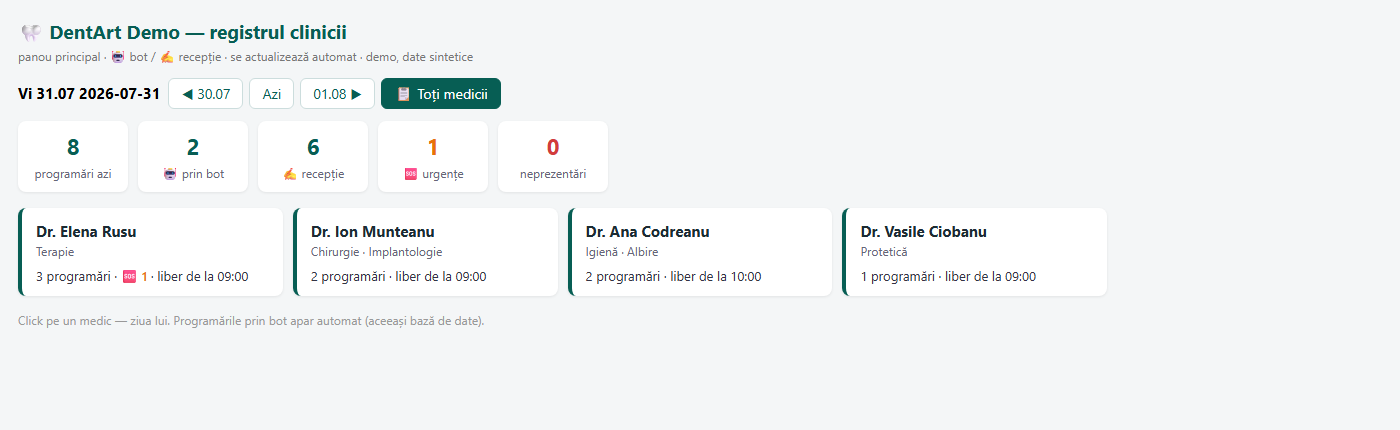
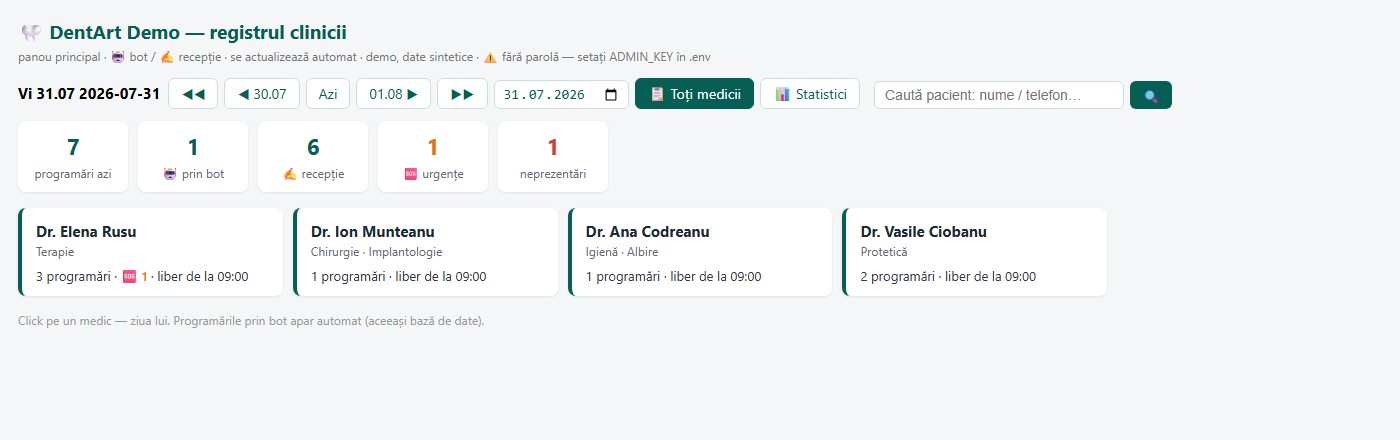
Refresh README: current feature set and updated screenshots
Features now include reminders, admin auth, backups, comments, patient search,
owner stats and CSV export; roadmap trimmed to what is actually left. New shots:
stats page, patient search; re-shot grid/dashboard/doctor-day with ages,
comments and the new date navigation.

diff --git a/README.md b/README.md
@@ -23,6 +23,15 @@ block the slot in the bot.
 
 ![Dashboard](screenshots/admin-dashboard.png)
 
+**Owner stats** — no-shows priced in MDL from the clinic's own price list, value brought
+by the bot, per-doctor occupancy:
+
+![Stats](screenshots/stats.png)
+
+**Patient search** by name or phone digits, with visit history and comments:
+
+<img src="screenshots/patient-search.png" width="680" alt="Patient search">
+
 **Click "+" on any free slot** — book a patient or leave a note that blocks the slot for the bot too:
 
 <img src="screenshots/slot-modal.png" width="430" alt="Slot modal">
@@ -40,8 +49,12 @@ block the slot in the bot.
   if only one doctor performs a service, the bot skips the question entirely.
 - **🆘 Acute pain flow**: no doctor/day questions — the nearest free slots *including today*,
   with the clinic phone always visible. All retry paths return to the nearest-slots view.
-- "My appointments" with cancellation (ownership enforced), price list, contacts,
-  reminder preview (scheduled reminders are on the roadmap).
+- After the name the bot asks for the **birth year** (optional, skippable) — the doctor
+  sees the age, the clinic stores privacy-minimal data (a year, not a full DOB).
+- "My appointments" with cancellation (ownership enforced), price list, contacts.
+- **Automatic reminders** for Telegram bookings: 24h and 2h before the visit, in the
+  patient's language, with confirm/cancel buttons right in the message; sent ones are
+  marked 🔔 in the journal.
 - Race-safe: double-booking is impossible (partial unique indexes on doctor/slot and
   patient/slot); the "any doctor" flow retries the remaining doctors before giving up;
   stale same-day slots are re-checked at confirmation time.
@@ -57,7 +70,21 @@ Three levels:
 
 Clicking **"+"** on any free slot opens a modal: *book a patient* or *leave a note /
 block the slot* ("lunch break", "seminar") — notes visibly block the slot for the bot too.
-Statuses per visit (came / no-show / cancelled) accumulate the clinic's real no-show stats.
+Clicking **any appointment** (in the grid or the day list) opens its card: patient info
+with age, an editable **reception comment** (allergies, call-back notes — shown as a 💬
+line, never visible to patients) and came / no-show / cancel buttons.
+Statuses per visit accumulate the clinic's real no-show stats.
+
+More journal tools:
+
+- **Patient search** by name or phone digits (any format) with the full visit history.
+- **Owner stats** (`/admin/stats`): bookings by source, visits, **no-shows priced in MDL**
+  from the clinic's own price list, "value brought by the bot", per-doctor occupancy
+  bars, top services — over any period.
+- **CSV export** of a day or period (semicolon + UTF-8 BOM, opens cleanly in Excel).
+- Date navigation everywhere: a native month-calendar picker plus ±7-day jumps.
+- The journal is protected by a per-clinic password (`ADMIN_KEY` in `.env`, HMAC cookie);
+  patient pages stay public. Empty key = open demo mode with a visible warning.
 
 ## One file = one clinic
 
@@ -81,6 +108,8 @@ docker compose up -d --build
 
 Reset to a fresh demo dataset: `docker compose down -v && docker compose up -d`.
 DB credentials in compose are demo-only; Postgres is bound to loopback.
+`Backup-Db.ps1` / `Restore-Db.ps1` dump and restore the database (`--clean`, 14-backup
+retention) — the restore path is verified by a fire drill into a throwaway container.
 
 `Start-Demo.ps1` / `Start_Demo.bat` are Windows helpers used for live demos:
 they start the stack, open a temporary Cloudflare quick tunnel and a QR page (`/demo`)
@@ -100,9 +129,10 @@ so a clinic owner can scan and book from their own phone.
 
 ## Roadmap
 
-- Scheduled reminders (the −20–25% no-show lever).
-- Auth on `/admin`, backups, multi-tenant single instance.
+- Waitlist auto-fill: a cancelled slot is offered to waiting patients automatically.
+- Recall campaigns: "6 months since your cleaning" re-invites via Telegram.
 - Google Calendar per doctor (push first, free/busy second).
+- Multi-tenant single instance (today: one lightweight compose stack per clinic).
 
 ## Pe scurt / Кратко
 
